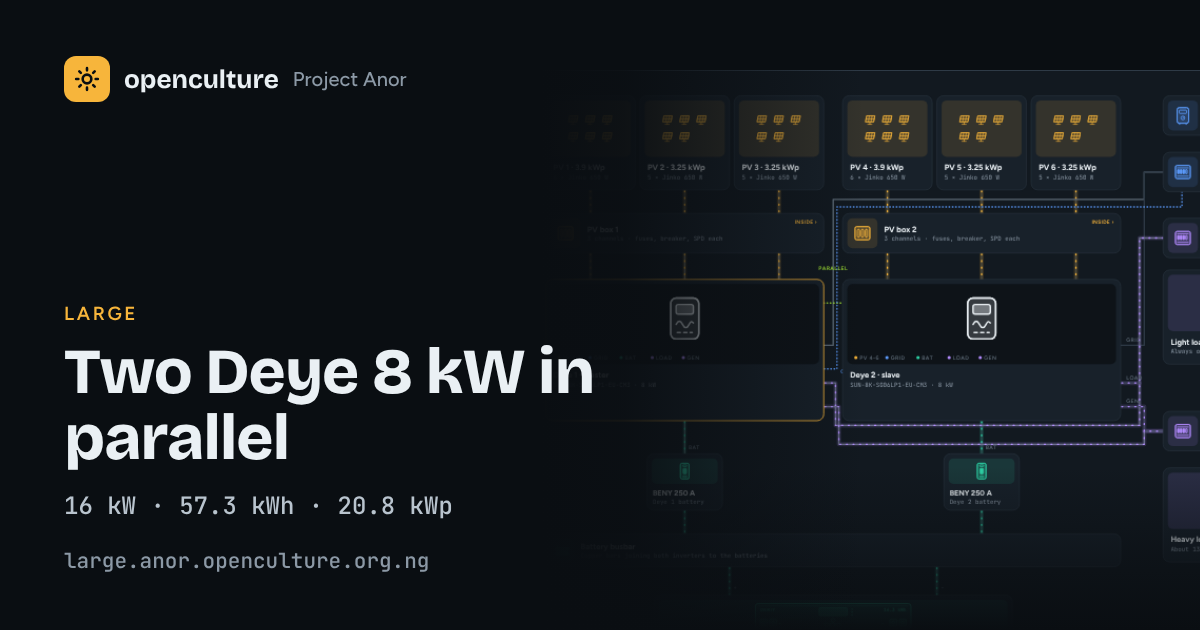
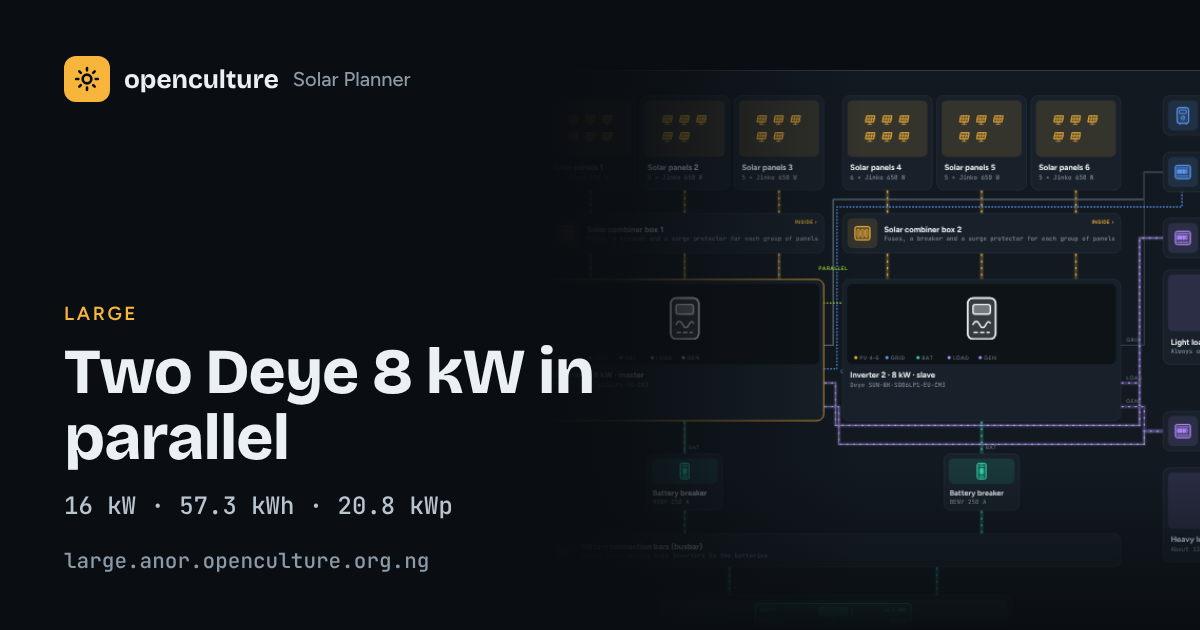
Rename the public name from Project Anor to Solar Planner
Page titles, headers, footers, descriptions and link preview images now
say Solar Planner. The home install is called my home build. Project Anor
stays as the development name: the repository, folders, Workers and
addresses are unchanged.

Dashboards move to version 0.97.

Claude-Session: https://claude.ai/code/session_01Ro6CdDtPZX7aSC2Ly1gQEZ

diff --git a/sites/guide/template.html b/sites/guide/template.html
@@ -9,13 +9,13 @@ body{margin:0}
 img{max-width:100%}
 [hidden]{display:none!important}
 </style>
-<title>Project Anor Solar Guide</title>
-<meta name="description" content="Pick your appliances and budget, and find the Project Anor solar design that fits: two plug-in kits and four worked systems for Nigerian homes, with reference prices.">
+<title>Solar Planner</title>
+<meta name="description" content="Pick your appliances and budget, and find the solar design that fits: two plug-in kits and four worked systems for Nigerian homes, with reference prices.">
 <link rel="canonical" href="https://project.anor.openculture.org.ng/">
 <meta property="og:type" content="website">
-<meta property="og:site_name" content="Project Anor">
-<meta property="og:title" content="Project Anor Solar Guide">
-<meta property="og:description" content="Pick your appliances and budget, and find the Project Anor solar design that fits: two plug-in kits and four worked systems for Nigerian homes, with reference prices.">
+<meta property="og:site_name" content="Solar Planner">
+<meta property="og:title" content="Solar Planner">
+<meta property="og:description" content="Pick your appliances and budget, and find the solar design that fits: two plug-in kits and four worked systems for Nigerian homes, with reference prices.">
 <meta property="og:url" content="https://project.anor.openculture.org.ng/">
 <meta property="og:image" content="https://project.anor.openculture.org.ng/og.png">
 <meta property="og:image:width" content="1200">
@@ -376,7 +376,7 @@ footer a{color:inherit}
 </style>
 
 <header class="top"><div class="wrap">
-  <a class="brand" href="#planner"><span class="logo" data-i="sun"></span>openculture <small>Project Anor</small></a>
+  <a class="brand" href="#planner"><span class="logo" data-i="sun"></span>openculture <small>Solar Planner</small></a>
   <nav aria-label="Main">
     <a href="#planner">Planner</a>
     <a href="#systems">Systems</a>
@@ -502,7 +502,7 @@ footer a{color:inherit}
 </div>
 </main>
 
-<footer><div class="wrap fgrid"><span class="m">Project Anor · __UPDATED__</span><span>By <a href="https://x.com/bigbrovar" target="_blank" rel="noopener">bigbrovar</a>. Design sketches to plan with, not installation guides. Have a qualified installer check any design before you buy.</span><span>Reference prices come from public listings, change often and exclude the installer’s charge. No store on this page pays to be listed.</span><span>I consult for Deriy on technical matters: after-sales repairs, documentation and product improvement. My role has nothing to do with sales or marketing.</span></div></footer>
+<footer><div class="wrap fgrid"><span class="m">Solar Planner · __UPDATED__</span><span>By <a href="https://x.com/bigbrovar" target="_blank" rel="noopener">bigbrovar</a>. Design sketches to plan with, not installation guides. Have a qualified installer check any design before you buy.</span><span>Reference prices come from public listings, change often and exclude the installer’s charge. No store on this page pays to be listed.</span><span>I consult for Deriy on technical matters: after-sales repairs, documentation and product improvement. My role has nothing to do with sales or marketing.</span></div></footer>
 
 <script>
 const ICONS={"sun": "<circle cx=\"12\" cy=\"12\" r=\"4\" /> <path d=\"M12 2v2\" /> <path d=\"M12 20v2\" /> <path d=\"m4.93 4.93 1.41 1.41\" /> <path d=\"m17.66 17.66 1.41 1.41\" /> <path d=\"M2 12h2\" /> <path d=\"M20 12h2\" /> <path d=\"m6.34 17.66-1.41 1.41\" /> <path d=\"m19.07 4.93-1.41 1.41\" />", "lightbulb": "<path d=\"M15 14c.2-1 .7-1.7 1.5-2.5 1-.9 1.5-2.2 1.5-3.5A6 6 0 0 0 6 8c0 1 .2 2.2 1.5 3.5.7.7 1.3 1.5 1.5 2.5\" /> <path d=\"M9 18h6\" /> <path d=\"M10 22h4\" />", "fan": "<path d=\"M10.827 16.379a6.082 6.082 0 0 1-8.618-7.002l5.412 1.45a6.082 6.082 0 0 1 7.002-8.618l-1.45 5.412a6.082 6.082 0 0 1 8.618 7.002l-5.412-1.45a6.082 6.082 0 0 1-7.002 8.618l1.45-5.412Z\" /> <path d=\"M12 12v.01\" />", "tv": "<rect width=\"20\" height=\"15\" x=\"2\" y=\"7\" rx=\"2\" ry=\"2\" /> <polyline points=\"17 2 12 7 7 2\" />", "router": "<rect width=\"20\" height=\"8\" x=\"2\" y=\"14\" rx=\"2\" /> <path d=\"M6.01 18H6\" /> <path d=\"M10.01 18H10\" /> <path d=\"M15 10v4\" /> <path d=\"M17.84 7.17a4 4 0 0 0-5.66 0\" /> <path d=\"M20.66 4.34a8 8 0 0 0-11.31 0\" />", "laptop": "<path d=\"M20 16V7a2 2 0 0 0-2-2H6a2 2 0 0 0-2 2v9m16 0H4m16 0 1.28 2.55a1 1 0 0 1-.9 1.45H3.62a1 1 0 0 1-.9-1.45L4 16\" />", "smartphone": "<rect width=\"14\" height=\"20\" x=\"5\" y=\"2\" rx=\"2\" ry=\"2\" /> <path d=\"M12 18h.01\" />", "refrigerator": "<path d=\"M5 6a4 4 0 0 1 4-4h6a4 4 0 0 1 4 4v14a2 2 0 0 1-2 2H7a2 2 0 0 1-2-2V6Z\" /> <path d=\"M5 10h14\" /> <path d=\"M15 7v6\" />", "snowflake": "<line x1=\"2\" x2=\"22\" y1=\"12\" y2=\"12\" /> <line x1=\"12\" x2=\"12\" y1=\"2\" y2=\"22\" /> <path d=\"m20 16-4-4 4-4\" /> <path d=\"m4 8 4 4-4 4\" /> <path d=\"m16 4-4 4-4-4\" /> <path d=\"m8 20 4-4 4 4\" />", "microwave": "<rect width=\"20\" height=\"15\" x=\"2\" y=\"4\" rx=\"2\" /> <rect width=\"8\" height=\"7\" x=\"6\" y=\"8\" rx=\"1\" /> <path d=\"M18 8v7\" /> <path d=\"M6 19v2\" /> <path d=\"M18 19v2\" />", "blend": "<circle cx=\"9\" cy=\"9\" r=\"7\" /> <circle cx=\"15\" cy=\"15\" r=\"7\" />", "shirt": "<path d=\"M20.38 3.46 16 2a4 4 0 0 1-8 0L3.62 3.46a2 2 0 0 0-1.34 2.23l.58 3.47a1 1 0 0 0 .99.84H6v10c0 1.1.9 2 2 2h8a2 2 0 0 0 2-2V10h2.15a1 1 0 0 0 .99-.84l.58-3.47a2 2 0 0 0-1.34-2.23z\" />", "washing-machine": "<path d=\"M3 6h3\" /> <path d=\"M17 6h.01\" /> <rect width=\"18\" height=\"20\" x=\"3\" y=\"2\" rx=\"2\" /> <circle cx=\"12\" cy=\"13\" r=\"5\" /> <path d=\"M12 18a2.5 2.5 0 0 0 0-5 2.5 2.5 0 0 1 0-5\" />", "droplets": "<path d=\"M7 16.3c2.2 0 4-1.83 4-4.05 0-1.16-.57-2.26-1.71-3.19S7.29 6.75 7 5.3c-.29 1.45-1.14 2.84-2.29 3.76S3 11.1 3 12.25c0 2.22 1.8 4.05 4 4.05z\" /> <path d=\"M12.56 6.6A10.97 10.97 0 0 0 14 3.02c.5 2.5 2 4.9 4 6.5s3 3.5 3 5.5a6.98 6.98 0 0 1-11.91 4.97\" />", "air-vent": "<path d=\"M6 12H4a2 2 0 0 1-2-2V5a2 2 0 0 1 2-2h16a2 2 0 0 1 2 2v5a2 2 0 0 1-2 2h-2\" /> <path d=\"M6 8h12\" /> <path d=\"M18.3 17.7a2.5 2.5 0 0 1-3.16 3.83 2.53 2.53 0 0 1-1.14-2V12\" /> <path d=\"M6.6 15.6A2 2 0 1 0 10 17v-5\" />", "battery-charging": "<path d=\"M15 7h1a2 2 0 0 1 2 2v6a2 2 0 0 1-2 2h-2\" /> <path d=\"M6 7H4a2 2 0 0 0-2 2v6a2 2 0 0 0 2 2h1\" /> <path d=\"m11 7-3 5h4l-3 5\" /> <line x1=\"22\" x2=\"22\" y1=\"11\" y2=\"13\" />", "battery-medium": "<rect width=\"16\" height=\"10\" x=\"2\" y=\"7\" rx=\"2\" ry=\"2\" /> <line x1=\"22\" x2=\"22\" y1=\"11\" y2=\"13\" /> <line x1=\"6\" x2=\"6\" y1=\"11\" y2=\"13\" /> <line x1=\"10\" x2=\"10\" y1=\"11\" y2=\"13\" />", "zap": "<path d=\"M4 14a1 1 0 0 1-.78-1.63l9.9-10.2a.5.5 0 0 1 .86.46l-1.92 6.02A1 1 0 0 0 13 10h7a1 1 0 0 1 .78 1.63l-9.9 10.2a.5.5 0 0 1-.86-.46l1.92-6.02A1 1 0 0 0 11 14z\" />", "shield-check": "<path d=\"M20 13c0 5-3.5 7.5-7.66 8.95a1 1 0 0 1-.67-.01C7.5 20.5 4 18 4 13V6a1 1 0 0 1 1-1c2 0 4.5-1.2 6.24-2.72a1.17 1.17 0 0 1 1.52 0C14.51 3.81 17 5 19 5a1 1 0 0 1 1 1z\" /> <path d=\"m9 12 2 2 4-4\" />", "cpu": "<rect width=\"16\" height=\"16\" x=\"4\" y=\"4\" rx=\"2\" /> <rect width=\"6\" height=\"6\" x=\"9\" y=\"9\" rx=\"1\" /> <path d=\"M15 2v2\" /> <path d=\"M15 20v2\" /> <path d=\"M2 15h2\" /> <path d=\"M2 9h2\" /> <path d=\"M20 15h2\" /> <path d=\"M20 9h2\" /> <path d=\"M9 2v2\" /> <path d=\"M9 20v2\" />", "utility-pole": "<path d=\"M12 2v20\" /> <path d=\"M2 5h20\" /> <path d=\"M3 3v2\" /> <path d=\"M7 3v2\" /> <path d=\"M17 3v2\" /> <path d=\"M21 3v2\" /> <path d=\"m19 5-7 7-7-7\" />", "fuel": "<line x1=\"3\" x2=\"15\" y1=\"22\" y2=\"22\" /> <line x1=\"4\" x2=\"14\" y1=\"9\" y2=\"9\" /> <path d=\"M14 22V4a2 2 0 0 0-2-2H6a2 2 0 0 0-2 2v18\" /> <path d=\"M14 13h2a2 2 0 0 1 2 2v2a2 2 0 0 0 2 2a2 2 0 0 0 2-2V9.83a2 2 0 0 0-.59-1.42L18 5\" />", "toggle-right": "<rect width=\"20\" height=\"12\" x=\"2\" y=\"6\" rx=\"6\" ry=\"6\" /> <circle cx=\"16\" cy=\"12\" r=\"2\" />", "layout-grid": "<rect width=\"7\" height=\"7\" x=\"3\" y=\"3\" rx=\"1\" /> <rect width=\"7\" height=\"7\" x=\"14\" y=\"3\" rx=\"1\" /> <rect width=\"7\" height=\"7\" x=\"14\" y=\"14\" rx=\"1\" /> <rect width=\"7\" height=\"7\" x=\"3\" y=\"14\" rx=\"1\" />", "house": "<path d=\"M15 21v-8a1 1 0 0 0-1-1h-4a1 1 0 0 0-1 1v8\" /> <path d=\"M3 10a2 2 0 0 1 .709-1.528l7-5.999a2 2 0 0 1 2.582 0l7 5.999A2 2 0 0 1 21 10v9a2 2 0 0 1-2 2H5a2 2 0 0 1-2-2z\" />", "cable": "<path d=\"M17 21v-2a1 1 0 0 1-1-1v-1a2 2 0 0 1 2-2h2a2 2 0 0 1 2 2v1a1 1 0 0 1-1 1\" /> <path d=\"M19 15V6.5a1 1 0 0 0-7 0v11a1 1 0 0 1-7 0V9\" /> <path d=\"M21 21v-2h-4\" /> <path d=\"M3 5h4V3\" /> <path d=\"M7 5a1 1 0 0 1 1 1v1a2 2 0 0 1-2 2H4a2 2 0 0 1-2-2V6a1 1 0 0 1 1-1V3\" />", "moon": "<path d=\"M12 3a6 6 0 0 0 9 9 9 9 0 1 1-9-9Z\" />", "plug-zap": "<path d=\"M6.3 20.3a2.4 2.4 0 0 0 3.4 0L12 18l-6-6-2.3 2.3a2.4 2.4 0 0 0 0 3.4Z\" /> <path d=\"m2 22 3-3\" /> <path d=\"M7.5 13.5 10 11\" /> <path d=\"M10.5 16.5 13 14\" /> <path d=\"m18 3-4 4h6l-4 4\" />", "power": "<path d=\"M12 2v10\" /> <path d=\"M18.4 6.6a9 9 0 1 1-12.77.04\" />", "cloud-sun": "<path d=\"M12 2v2\" /> <path d=\"m4.93 4.93 1.41 1.41\" /> <path d=\"M20 12h2\" /> <path d=\"m19.07 4.93-1.41 1.41\" /> <path d=\"M15.947 12.65a4 4 0 0 0-5.925-4.128\" /> <path d=\"M13 22H7a5 5 0 1 1 4.9-6H13a3 3 0 0 1 0 6Z\" />", "gauge": "<path d=\"m12 14 4-4\" /> <path d=\"M3.34 19a10 10 0 1 1 17.32 0\" />"};

diff --git a/sites/home-solar/template.html b/sites/home-solar/template.html
@@ -4,13 +4,13 @@
 <!-- Template for build.py: the __PLACEHOLDERS__ and the DATA block are filled in from data/*.yaml. -->
 <meta charset="utf-8">
 <meta name="viewport" content="width=device-width, initial-scale=1, viewport-fit=cover">
-<title>Project Anor · DIY home solar</title>
-<meta name="description" content="Interactive wiring schematic, sizing checks and parts list for Project Anor: a DIY 48 V Victron home solar build with two inverters, one shared battery bank and grid backup.">
+<title>Solar Planner · DIY home solar</title>
+<meta name="description" content="Interactive wiring schematic, sizing checks and parts list for a DIY 48 V Victron home solar build with two inverters, one shared battery bank and grid backup.">
 <link rel="canonical" href="https://home.anor.openculture.org.ng/">
 <meta property="og:type" content="website">
-<meta property="og:site_name" content="Project Anor">
-<meta property="og:title" content="Project Anor · DIY home solar">
-<meta property="og:description" content="Interactive wiring schematic, sizing checks and parts list for Project Anor: a DIY 48 V Victron home solar build with two inverters, one shared battery bank and grid backup.">
+<meta property="og:site_name" content="Solar Planner">
+<meta property="og:title" content="Solar Planner · DIY home solar">
+<meta property="og:description" content="Interactive wiring schematic, sizing checks and parts list for a DIY 48 V Victron home solar build with two inverters, one shared battery bank and grid backup.">
 <meta property="og:url" content="https://home.anor.openculture.org.ng/">
 <meta property="og:image" content="https://home.anor.openculture.org.ng/og.png">
 <meta property="og:image:width" content="1200">
@@ -469,7 +469,7 @@ details.whyd li{display:list-item}
   <section class="hero" aria-labelledby="h1">
     <div>
       <p class="eyebrow">DIY residential off-grid setup · 48 V with grid backup</p>
-      <h1 id="h1" style="margin-top:10px">Project Anor</h1>
+      <h1 id="h1" style="margin-top:10px">My home solar build</h1>
       <p class="lead">Two Victron inverters on one shared battery. A Multi RS Solar runs the light loads from its own panels. A MultiPlus-II runs the heavy loads, fed by two separate solar charge controllers. Grid is the backup for both.</p>
       <p class="livecta"><a class="btn" href="#" data-live target="_blank" rel="noopener"><i class="dot" aria-hidden="true"></i>See this system live</a><span>Solar, battery and load readings from this install, as they happen.</span></p>
     </div>
@@ -573,7 +573,7 @@ details.whyd li{display:list-item}
 <div id="v-batt" class="view" hidden></div>
 </main>
 
-<footer><div class="wrap"><span class="m" style="color:var(--ink)">Project Anor · v__VERSION__ · __UPDATED__</span><span>A DIY build by <a href="https://x.com/bigbrovar" target="_blank" rel="noopener">bigbrovar</a>. Not an installation guide.</span><span>Links marked Affiliate are AliExpress affiliate links: if you buy through them, Openculture earns a small commission at no extra cost to you. The ZJBeny, Victron, Deriy and Fouani links are not affiliate links.</span><span>I consult for Deriy on technical matters: after-sales repairs, documentation and product improvement. My role has nothing to do with sales or marketing.</span></div></footer>
+<footer><div class="wrap"><span class="m" style="color:var(--ink)">My home solar build · v__VERSION__ · __UPDATED__</span><span>A DIY build by <a href="https://x.com/bigbrovar" target="_blank" rel="noopener">bigbrovar</a>. Not an installation guide.</span><span>Links marked Affiliate are AliExpress affiliate links: if you buy through them, Openculture earns a small commission at no extra cost to you. The ZJBeny, Victron, Deriy and Fouani links are not affiliate links.</span><span>I consult for Deriy on technical matters: after-sales repairs, documentation and product improvement. My role has nothing to do with sales or marketing.</span></div></footer>
 
 <script>
 "use strict";

diff --git a/sites/deye-single/template.html b/sites/deye-single/template.html
@@ -8,7 +8,7 @@
 <meta name="description" content="__DESC__">
 <link rel="canonical" href="https://biglittle.anor.openculture.org.ng/">
 <meta property="og:type" content="website">
-<meta property="og:site_name" content="Project Anor">
+<meta property="og:site_name" content="Solar Planner">
 <meta property="og:title" content="__TITLE__">
 <meta property="og:description" content="__DESC__">
 <meta property="og:url" content="https://biglittle.anor.openculture.org.ng/">
@@ -573,7 +573,7 @@ details.whyd li{display:list-item}
 <div id="v-batt" class="view" hidden></div>
 </main>
 
-<footer><div class="wrap"><span class="m" style="color:var(--ink)">__H1__ · v__VERSION__ · __UPDATED__</span><span>An alternative design for <a href="https://home.anor.openculture.org.ng" target="_blank" rel="noopener">Project Anor</a>, by <a href="https://x.com/bigbrovar" target="_blank" rel="noopener">bigbrovar</a>. A design sketch, not an installation guide.</span><span>__FOOTER__</span></div></footer>
+<footer><div class="wrap"><span class="m" style="color:var(--ink)">__H1__ · v__VERSION__ · __UPDATED__</span><span>An alternative design for <a href="https://home.anor.openculture.org.ng" target="_blank" rel="noopener">my home build</a>, part of <a href="https://project.anor.openculture.org.ng" target="_blank" rel="noopener">Solar Planner</a>, by <a href="https://x.com/bigbrovar" target="_blank" rel="noopener">bigbrovar</a>. A design sketch, not an installation guide.</span><span>__FOOTER__</span></div></footer>
 
 <script>
 "use strict";

diff --git a/sites/growatt-single/template.html b/sites/growatt-single/template.html
@@ -8,7 +8,7 @@
 <meta name="description" content="__DESC__">
 <link rel="canonical" href="https://medium.anor.openculture.org.ng/">
 <meta property="og:type" content="website">
-<meta property="og:site_name" content="Project Anor">
+<meta property="og:site_name" content="Solar Planner">
 <meta property="og:title" content="__TITLE__">
 <meta property="og:description" content="__DESC__">
 <meta property="og:url" content="https://medium.anor.openculture.org.ng/">
@@ -573,7 +573,7 @@ details.whyd li{display:list-item}
 <div id="v-batt" class="view" hidden></div>
 </main>
 
-<footer><div class="wrap"><span class="m" style="color:var(--ink)">__H1__ · v__VERSION__ · __UPDATED__</span><span>An alternative design for <a href="https://home.anor.openculture.org.ng" target="_blank" rel="noopener">Project Anor</a>, by <a href="https://x.com/bigbrovar" target="_blank" rel="noopener">bigbrovar</a>. A design sketch, not an installation guide.</span><span>__FOOTER__</span></div></footer>
+<footer><div class="wrap"><span class="m" style="color:var(--ink)">__H1__ · v__VERSION__ · __UPDATED__</span><span>An alternative design for <a href="https://home.anor.openculture.org.ng" target="_blank" rel="noopener">my home build</a>, part of <a href="https://project.anor.openculture.org.ng" target="_blank" rel="noopener">Solar Planner</a>, by <a href="https://x.com/bigbrovar" target="_blank" rel="noopener">bigbrovar</a>. A design sketch, not an installation guide.</span><span>__FOOTER__</span></div></footer>
 
 <script>
 "use strict";

diff --git a/sites/deye-parallel/template.html b/sites/deye-parallel/template.html
@@ -8,7 +8,7 @@
 <meta name="description" content="__DESC__">
 <link rel="canonical" href="https://large.anor.openculture.org.ng/">
 <meta property="og:type" content="website">
-<meta property="og:site_name" content="Project Anor">
+<meta property="og:site_name" content="Solar Planner">
 <meta property="og:title" content="__TITLE__">
 <meta property="og:description" content="__DESC__">
 <meta property="og:url" content="https://large.anor.openculture.org.ng/">
@@ -573,7 +573,7 @@ details.whyd li{display:list-item}
 <div id="v-batt" class="view" hidden></div>
 </main>
 
-<footer><div class="wrap"><span class="m" style="color:var(--ink)">__H1__ · v__VERSION__ · __UPDATED__</span><span>An alternative design for <a href="https://home.anor.openculture.org.ng" target="_blank" rel="noopener">Project Anor</a>, by <a href="https://x.com/bigbrovar" target="_blank" rel="noopener">bigbrovar</a>. A design sketch, not an installation guide.</span><span>__FOOTER__</span></div></footer>
+<footer><div class="wrap"><span class="m" style="color:var(--ink)">__H1__ · v__VERSION__ · __UPDATED__</span><span>An alternative design for <a href="https://home.anor.openculture.org.ng" target="_blank" rel="noopener">my home build</a>, part of <a href="https://project.anor.openculture.org.ng" target="_blank" rel="noopener">Solar Planner</a>, by <a href="https://x.com/bigbrovar" target="_blank" rel="noopener">bigbrovar</a>. A design sketch, not an installation guide.</span><span>__FOOTER__</span></div></footer>
 
 <script>
 "use strict";

diff --git a/sites/srne-24v/template.html b/sites/srne-24v/template.html
@@ -8,7 +8,7 @@
 <meta name="description" content="__DESC__">
 <link rel="canonical" href="https://msmall.anor.openculture.org.ng/">
 <meta property="og:type" content="website">
-<meta property="og:site_name" content="Project Anor">
+<meta property="og:site_name" content="Solar Planner">
 <meta property="og:title" content="__TITLE__">
 <meta property="og:description" content="__DESC__">
 <meta property="og:url" content="https://msmall.anor.openculture.org.ng/">
@@ -573,7 +573,7 @@ details.whyd li{display:list-item}
 <div id="v-batt" class="view" hidden></div>
 </main>
 
-<footer><div class="wrap"><span class="m" style="color:var(--ink)">__H1__ · v__VERSION__ · __UPDATED__</span><span>A design from <a href="https://home.anor.openculture.org.ng" target="_blank" rel="noopener">Project Anor</a>, by <a href="https://x.com/bigbrovar" target="_blank" rel="noopener">bigbrovar</a>. A design sketch, not an installation guide.</span><span>__FOOTER__</span></div></footer>
+<footer><div class="wrap"><span class="m" style="color:var(--ink)">__H1__ · v__VERSION__ · __UPDATED__</span><span>A design from <a href="https://project.anor.openculture.org.ng" target="_blank" rel="noopener">Solar Planner</a>, by <a href="https://x.com/bigbrovar" target="_blank" rel="noopener">bigbrovar</a>. A design sketch, not an installation guide.</span><span>__FOOTER__</span></div></footer>
 
 <script>
 "use strict";

diff --git a/sites/ecoflow-small/template.html b/sites/ecoflow-small/template.html
@@ -8,7 +8,7 @@
 <meta name="description" content="__DESC__">
 <link rel="canonical" href="https://__HOST__/">
 <meta property="og:type" content="website">
-<meta property="og:site_name" content="Project Anor">
+<meta property="og:site_name" content="Solar Planner">
 <meta property="og:title" content="__TITLE__">
 <meta property="og:description" content="__DESC__">
 <meta property="og:url" content="https://__HOST__/">
@@ -565,7 +565,7 @@ details.whyd li{display:list-item}
 <div id="v-batt" class="view" hidden></div>
 </main>
 
-<footer><div class="wrap"><span class="m" style="color:var(--ink)">__H1__ · v__VERSION__ · __UPDATED__</span><span>A design from <a href="https://home.anor.openculture.org.ng" target="_blank" rel="noopener">Project Anor</a>, by <a href="https://x.com/bigbrovar" target="_blank" rel="noopener">bigbrovar</a>. A design sketch, not an installation guide.</span><span>__FOOTER__</span></div></footer>
+<footer><div class="wrap"><span class="m" style="color:var(--ink)">__H1__ · v__VERSION__ · __UPDATED__</span><span>A design from <a href="https://project.anor.openculture.org.ng" target="_blank" rel="noopener">Solar Planner</a>, by <a href="https://x.com/bigbrovar" target="_blank" rel="noopener">bigbrovar</a>. A design sketch, not an installation guide.</span><span>__FOOTER__</span></div></footer>
 
 <script>
 "use strict";

diff --git a/sites/ecoflow-tiny/template.html b/sites/ecoflow-tiny/template.html
@@ -8,7 +8,7 @@
 <meta name="description" content="__DESC__">
 <link rel="canonical" href="https://__HOST__/">
 <meta property="og:type" content="website">
-<meta property="og:site_name" content="Project Anor">
+<meta property="og:site_name" content="Solar Planner">
 <meta property="og:title" content="__TITLE__">
 <meta property="og:description" content="__DESC__">
 <meta property="og:url" content="https://__HOST__/">
@@ -565,7 +565,7 @@ details.whyd li{display:list-item}
 <div id="v-batt" class="view" hidden></div>
 </main>
 
-<footer><div class="wrap"><span class="m" style="color:var(--ink)">__H1__ · v__VERSION__ · __UPDATED__</span><span>A design from <a href="https://home.anor.openculture.org.ng" target="_blank" rel="noopener">Project Anor</a>, by <a href="https://x.com/bigbrovar" target="_blank" rel="noopener">bigbrovar</a>. A design sketch, not an installation guide.</span><span>__FOOTER__</span></div></footer>
+<footer><div class="wrap"><span class="m" style="color:var(--ink)">__H1__ · v__VERSION__ · __UPDATED__</span><span>A design from <a href="https://project.anor.openculture.org.ng" target="_blank" rel="noopener">Solar Planner</a>, by <a href="https://x.com/bigbrovar" target="_blank" rel="noopener">bigbrovar</a>. A design sketch, not an installation guide.</span><span>__FOOTER__</span></div></footer>
 
 <script>
 "use strict";

diff --git a/README.md b/README.md
@@ -1,4 +1,6 @@
-# Project Anor
+# Solar Planner
+
+The public name is Solar Planner. Project Anor is the development name, and it stays in the repository, folder, Worker and address names.
 
 Open schematics and interactive write-ups of solar and power builds, by [bigbrovar](https://x.com/bigbrovar).
 
